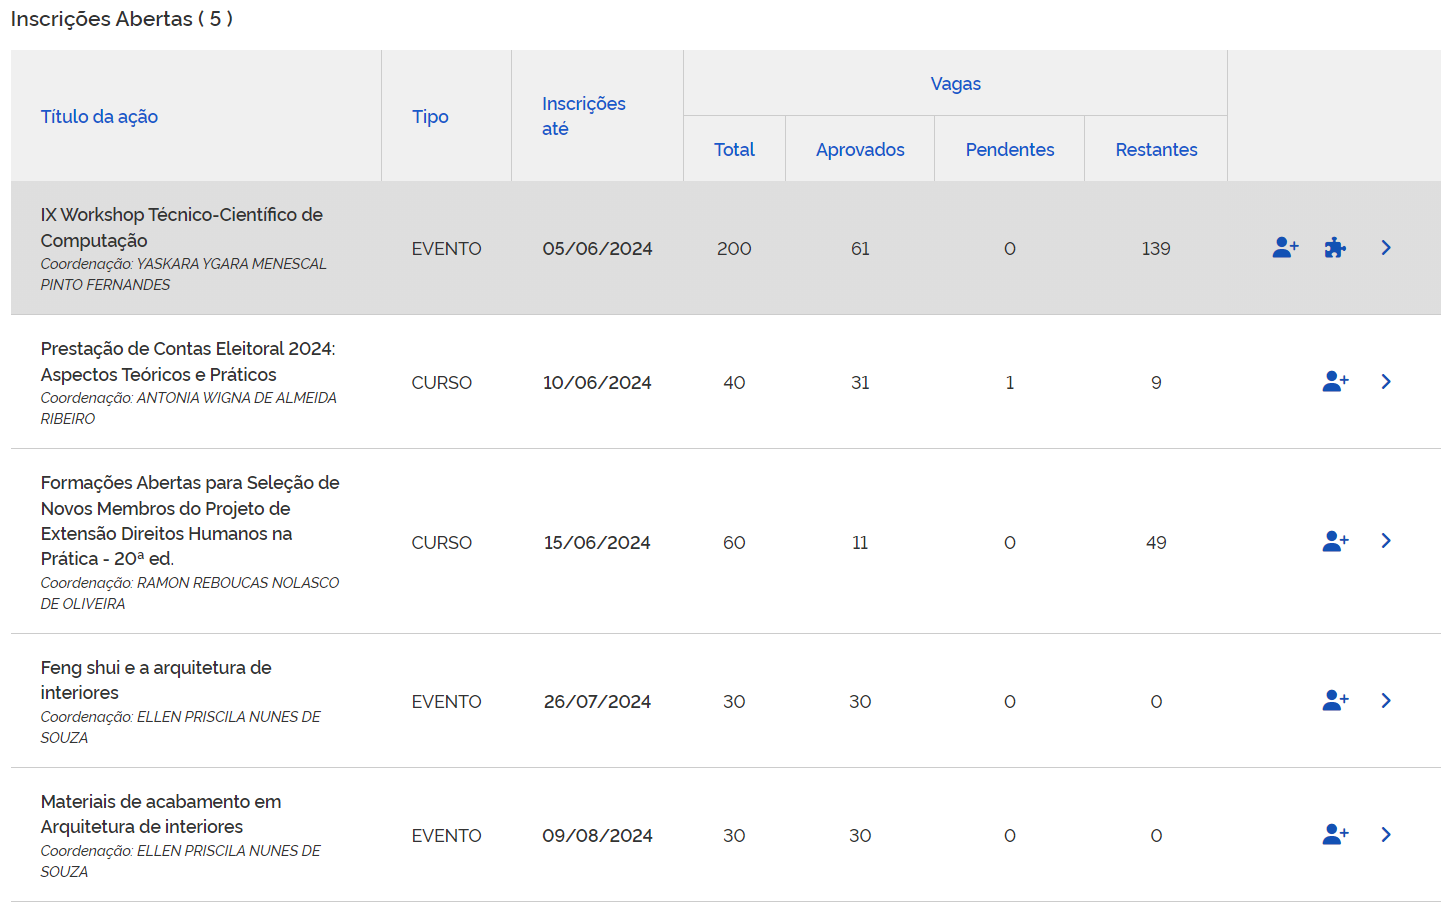
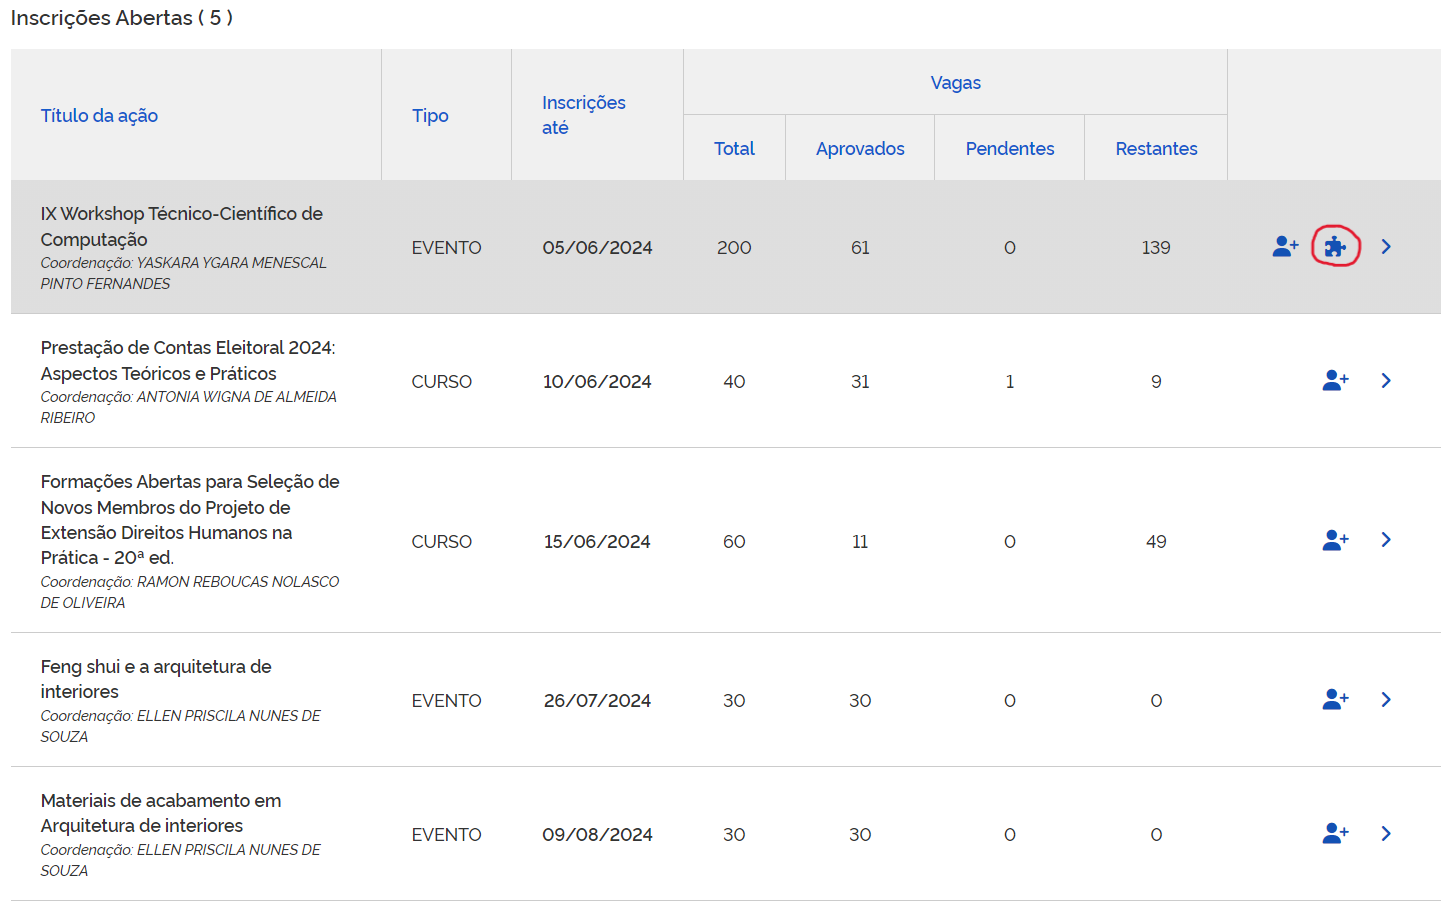
inscrição nos minicursos page pronto

diff --git a/src/lib/steps-minicursos.tsx b/src/lib/steps-minicursos.tsx
@@ -1,14 +1,29 @@
+import Link from 'next/link';
+
 import { Step } from './definitions';
+
+import { HiCursorClick } from 'react-icons/hi';
 
 export const steps: Step[] = [
     {
         index: 0,
-        title: "Achando o evento pelo SIGAA",
-        image: "/imagens-inscrever-se/img1.jpg",
+        title: "Achando os minicursos disponíveis",
+        image: "/imagens-inscrever-se/minicursos/img1.png",
         imageDesc: "Dentro do site do SIGAA",
         content: (
-            <p>Para se inscrever, acesse o site do <a href="https://sigaa.ufersa.edu.br/sigaa/portais/discente/discente.jsf">SIGAA</a>, e faça login na sua conta. Em seguida vá até a aba de Extensão &gt; Inscrição Online em Ações de Extensão</p>
+            <p>Para inscrever-se nos minicursos que ocorrerão na parte da tarde, clique nesse botão na aba do evento!</p>
         )
     },
-
+    {
+        index: 1,
+        title: "Inscrevendo-se no minicurso",
+        image: "/imagens-inscrever-se/minicursos/img2.png",
+        imageDesc: "Selecionando o minicurso",
+        content: (
+            <div className="flex flex-col gap-3">
+                <p>Escolha seu minicurso e inscreva-se! Fique atento a data do minicurso.</p>
+                <p>As datas oficiais dos minicursos estão na página de <Link href="/eventos/minicursos" legacyBehavior passHref><span className="italic cursor-pointer">minicursos<HiCursorClick className="inline-flex ml-[0.2rem] mb-[0.5rem]" size={10} /></span></Link></p>
+            </div>
+        )
+    }
 ];

diff --git a/src/app/inscrever-se/minicursos/page.tsx b/src/app/inscrever-se/minicursos/page.tsx
@@ -48,8 +48,8 @@ export default function Minicursos() {
                         />
                     ))}
                 </div>
-                <div className="mt-7 w-full h-[28rem]">
-                    <div className="flex gap-3 bg-slate-200 rounded-md p-12 mx-16 h-96">
+                <div className="mt-7 w-full h-[70vh]">
+                    <div className="flex gap-3 bg-slate-200 rounded-md p-12 mx-16 h-[65vh]">
                         {steps[step].image != "" && (
                             <motion.div key={steps[step].image} initial="hidden" animate="visible" variants={uppV3} className="w-1/2 flex flex-col justify-center items-center">
                                 <div className="object-cover">
